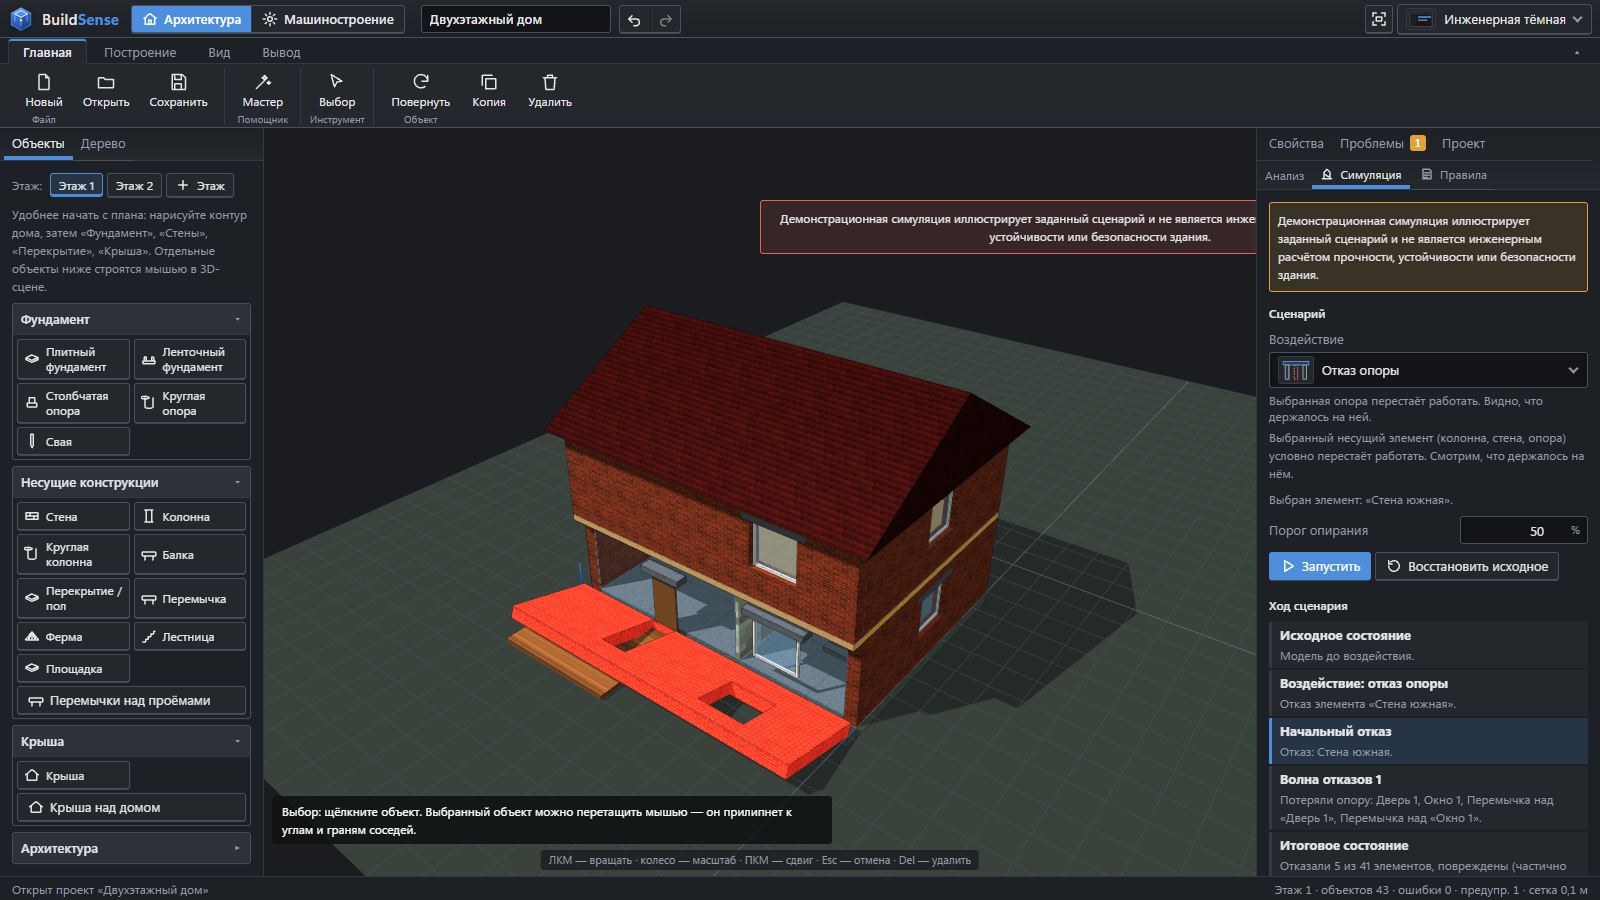
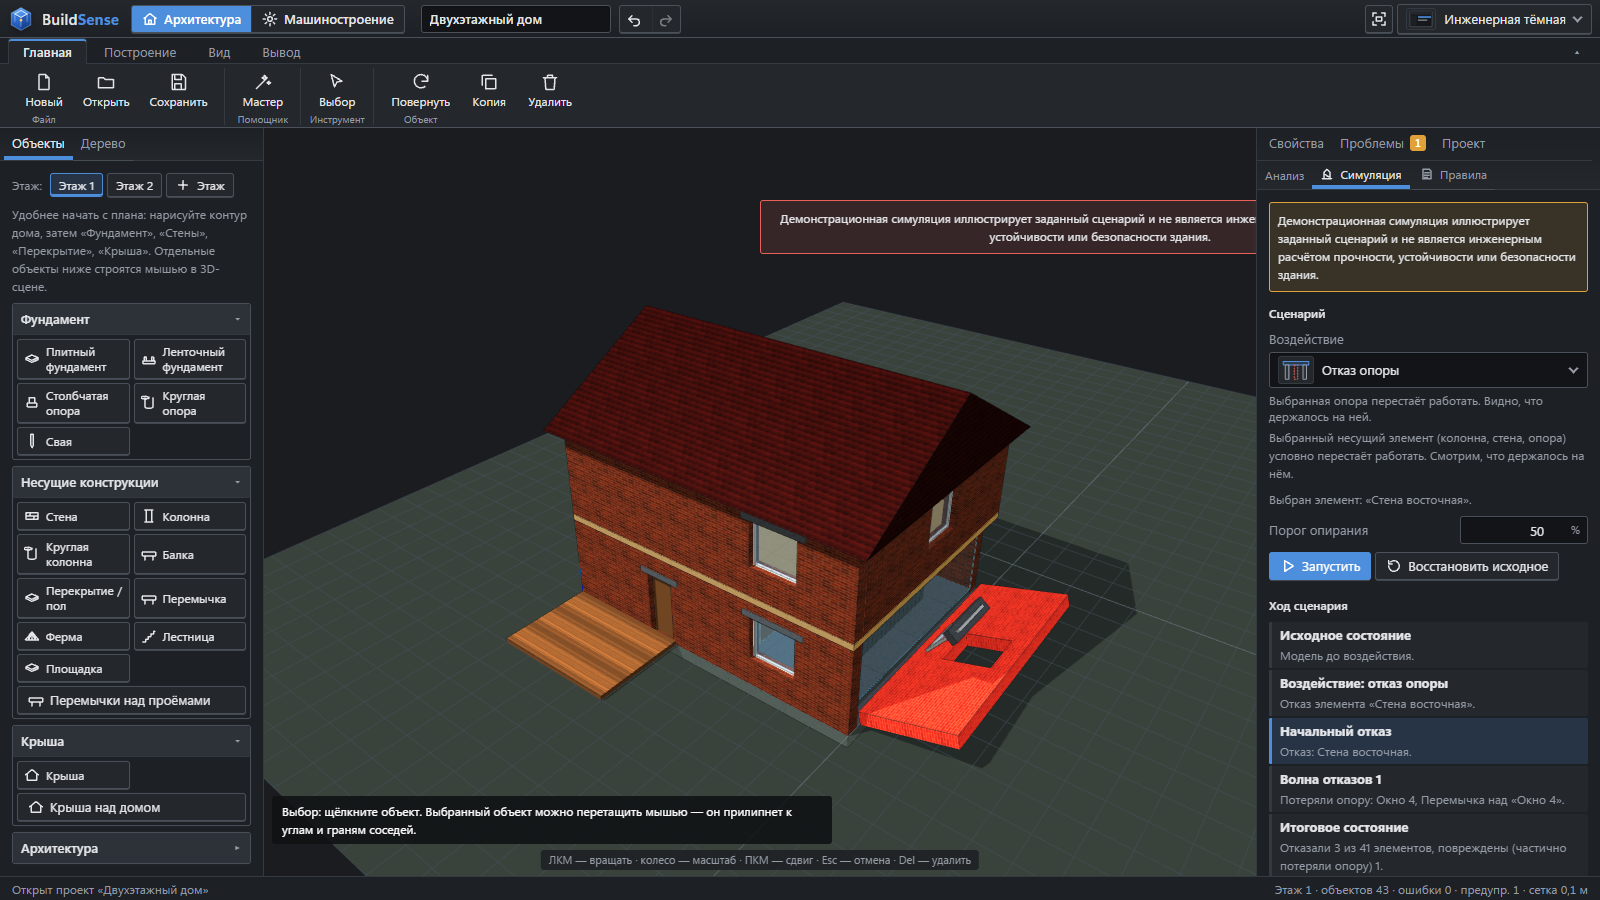
README: re-shot all screenshots from the app, add prototype gallery
Previous shots were stale or showed leaked state; all are regenerated by
tools/make-screenshots.mjs. Adds the six large building prototypes and a link
to the online version.

diff --git a/README.md b/README.md
@@ -1,5 +1,7 @@
 # BuildSense — учебная САПР: дом, детали и сборки
 
+**Открыть онлайн:** https://sneyri.github.io/freecad-snip-checker/ · исходный код — в этом репозитории, ничего устанавливать не нужно.
+
 BuildSense — учебная программа для первых шагов в проектировании. Работает прямо в браузере, без установки.
 Два режима переключаются вверху окна:
 
@@ -42,7 +44,19 @@ BuildSense — учебная программа для первых шагов 
 | **Разрез вала на опорах** | **Импорт во FreeCAD 1.1.4** |
 | ![Разрез вала](docs/img/mech-shaft-section.png) | ![FreeCAD](docs/img/freecad-import.png) |
 
-Скриншоты сняты в самой программе (Chrome, тёмная тема); разрез, взрывной вид и симуляция — только показ, проект они не меняют.
+Все скриншоты снимаются автоматически прямо из программы (Chrome, тёмная тема, 1600×900): `node tools/make-screenshots.mjs`; разрез, взрывной вид и симуляция — только показ, проект они не меняют. Снимок «Импорт во FreeCAD» сделан в настоящем FreeCAD 1.1.4.
+
+### Крупные здания-прототипы
+
+Шесть больших проектов (меню «Новый» или ссылка `index.html#example=<ключ>`), собранных теми же функциями программы:
+
+| Усадьба, Г-образная (`estate`) | Особняк с портиком, 3 этажа (`mansion`) |
+|---|---|
+| ![Усадьба](docs/img/proto-estate.png) | ![Особняк](docs/img/proto-mansion.png) |
+| **Жилая секция, 7 этажей (`tower`)** | **Вилла-крест (`villa`)** |
+| ![Секция](docs/img/proto-tower.png) | ![Вилла](docs/img/proto-villa.png) |
+| **Бревенчатый дом на сваях (`timber`)** | **Торговый центр с фермами (`mall`)** |
+| ![Бревенчатый дом](docs/img/proto-timber.png) | ![Торговый центр](docs/img/proto-mall.png) |
 
 ## Быстрый старт
 
